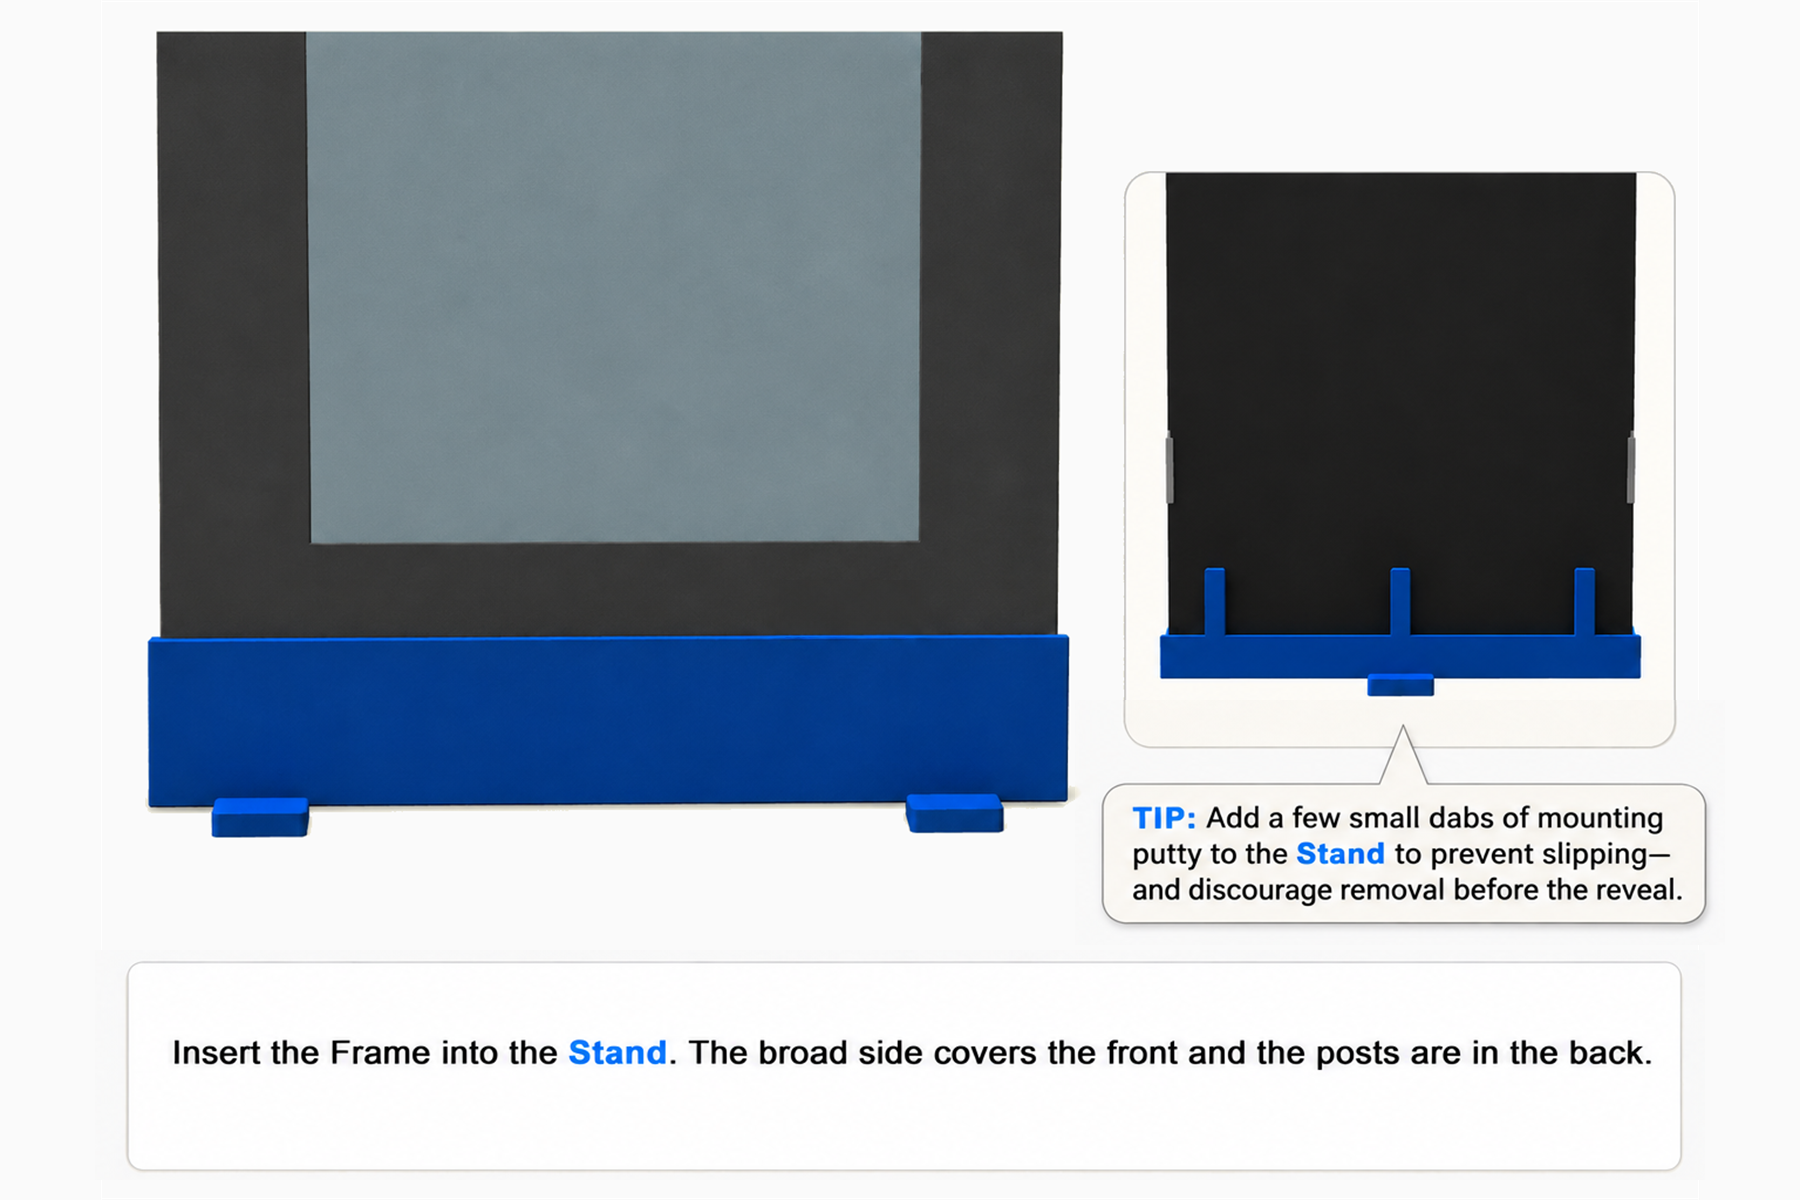
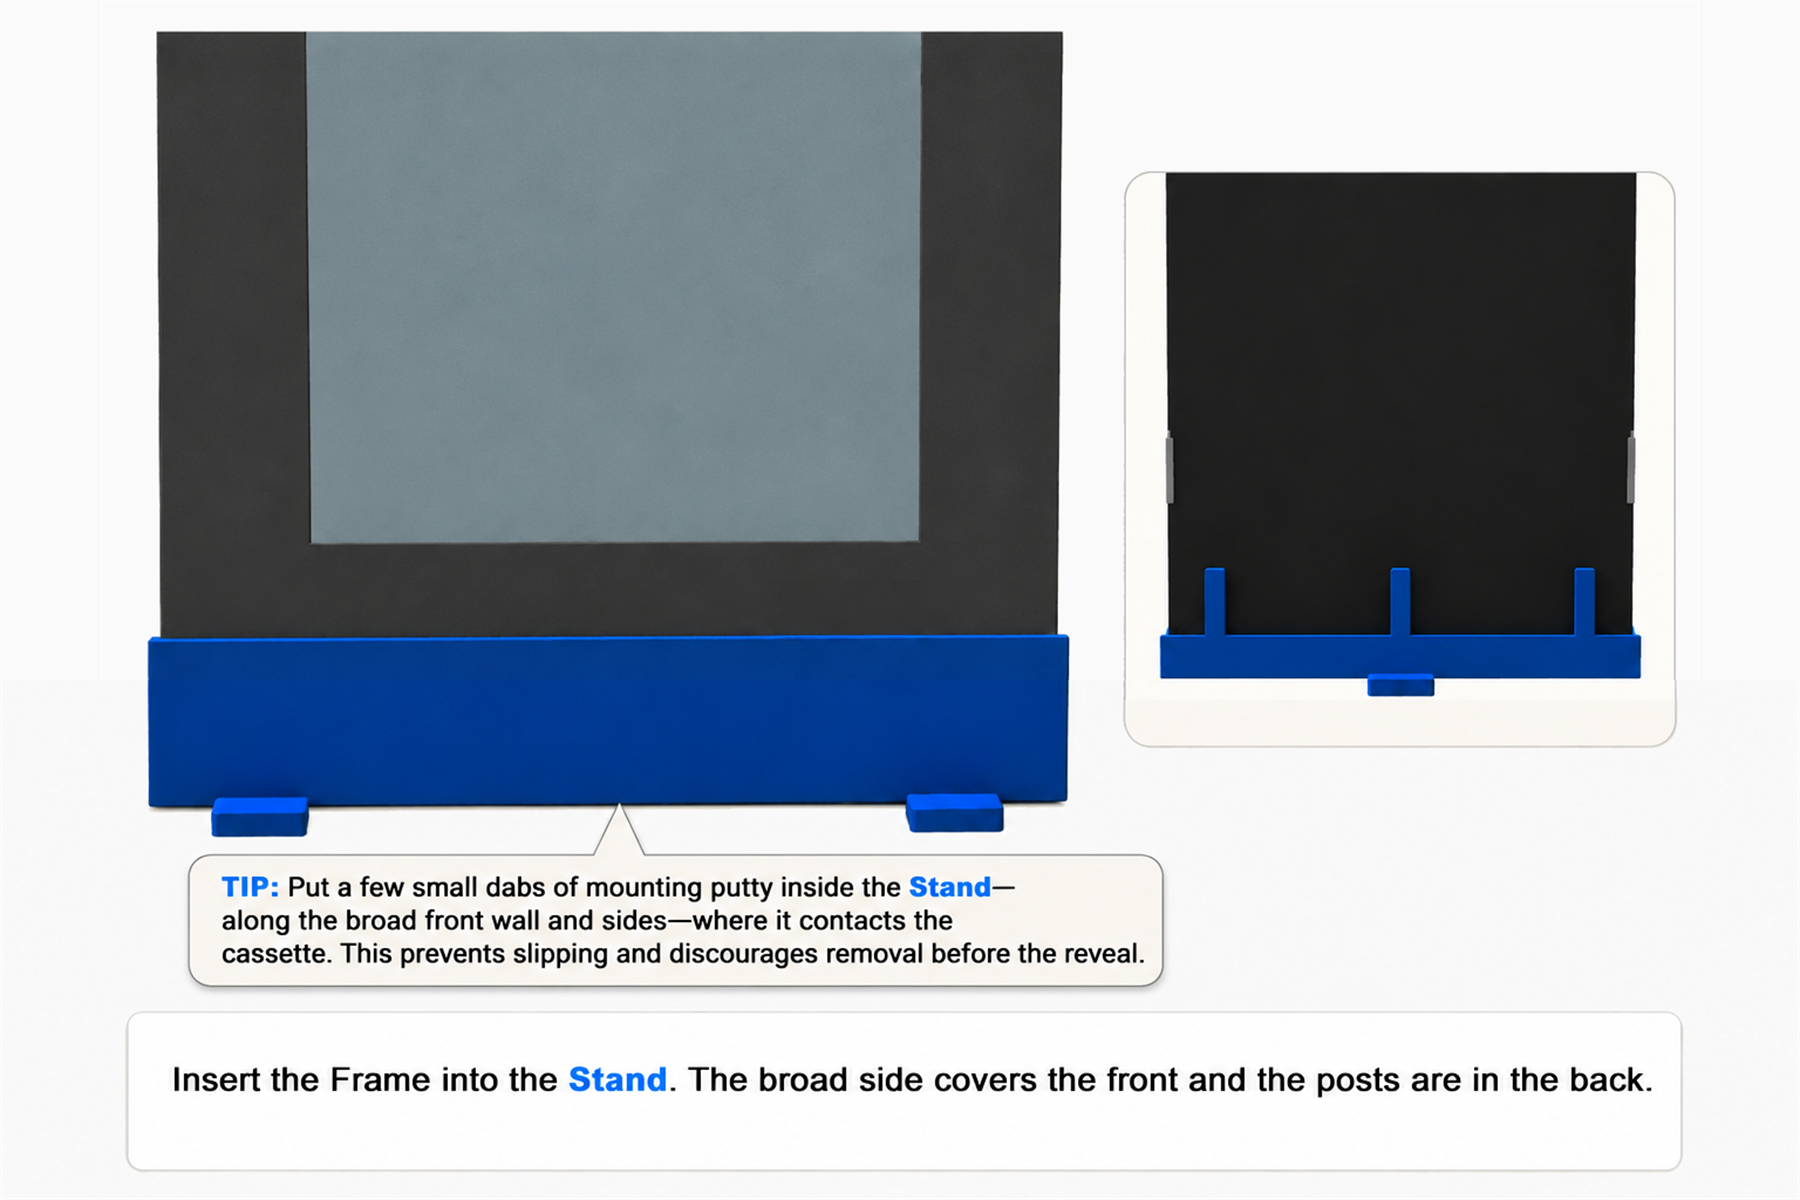
Clarify front mounting putty placement

diff --git a/AssemblyData.html b/AssemblyData.html
@@ -1,5 +1,5 @@
 window.ASSEMBLY_MANIFEST = {
-  version: 9,
+  version: 10,
   imageBase: "https://cdn.jsdelivr.net/gh/dvzdan/frames-site@17261ff/assets/instruction%20images",
   reference: {
     title: "Final Setup",
